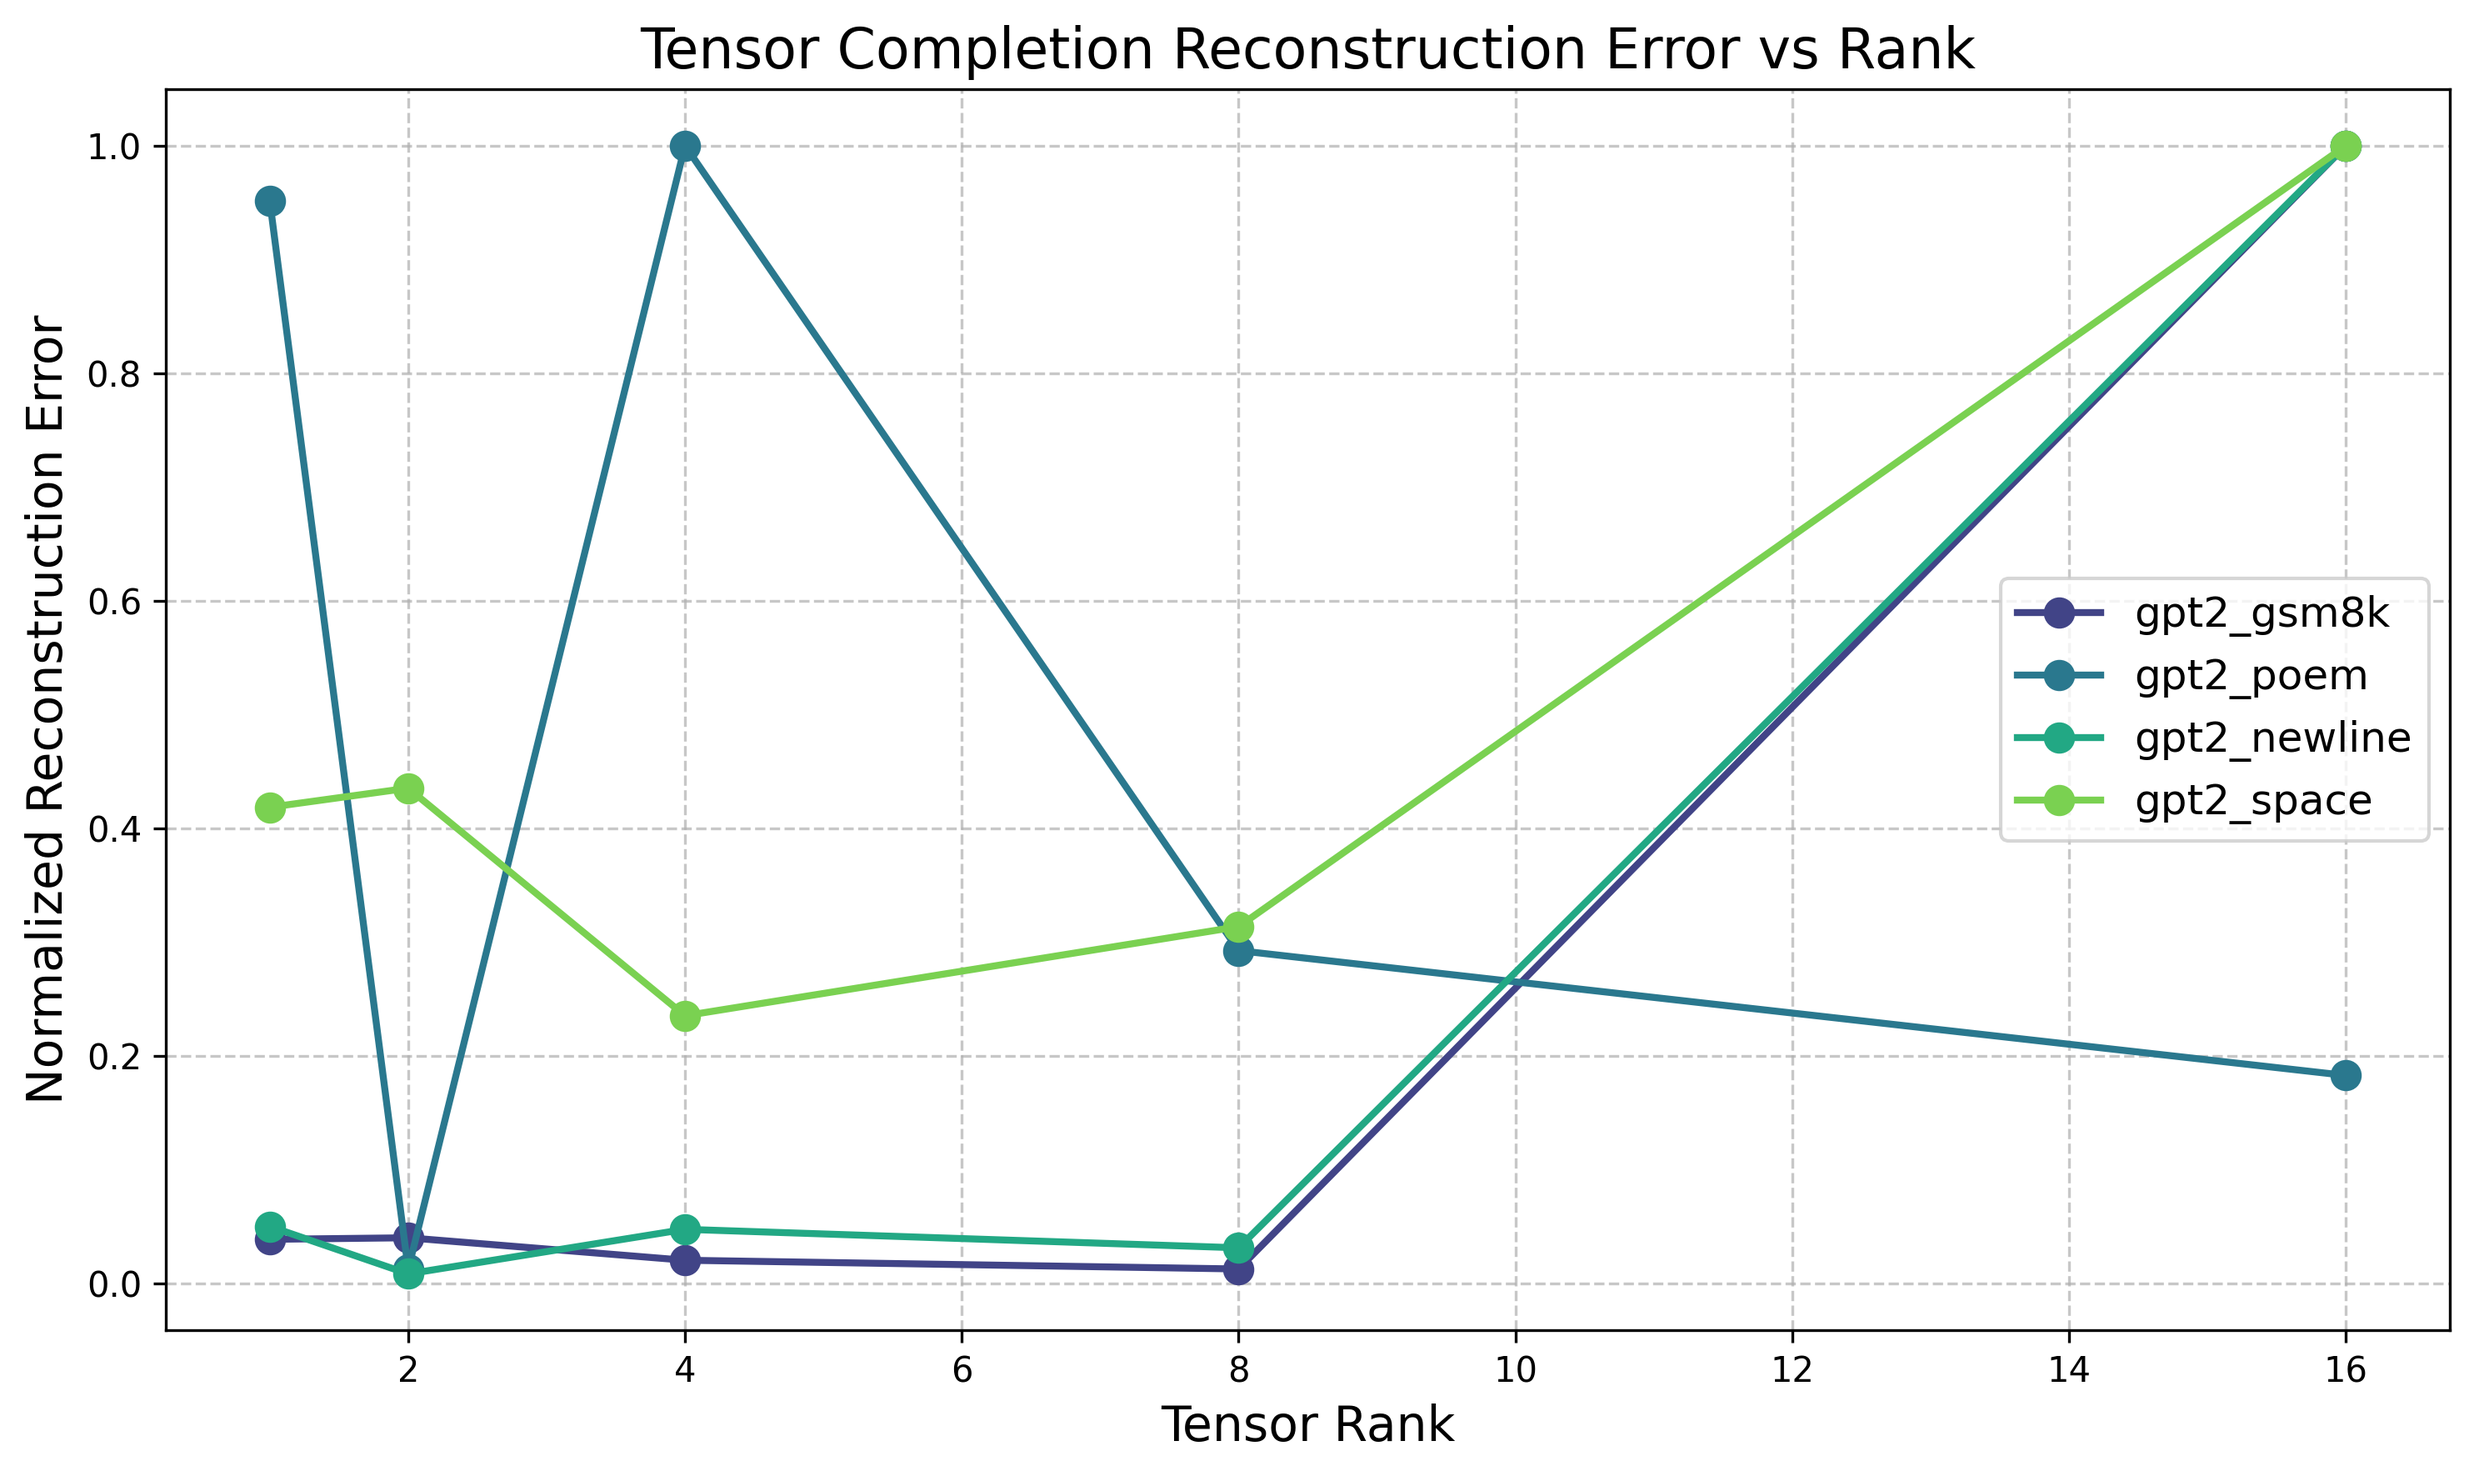
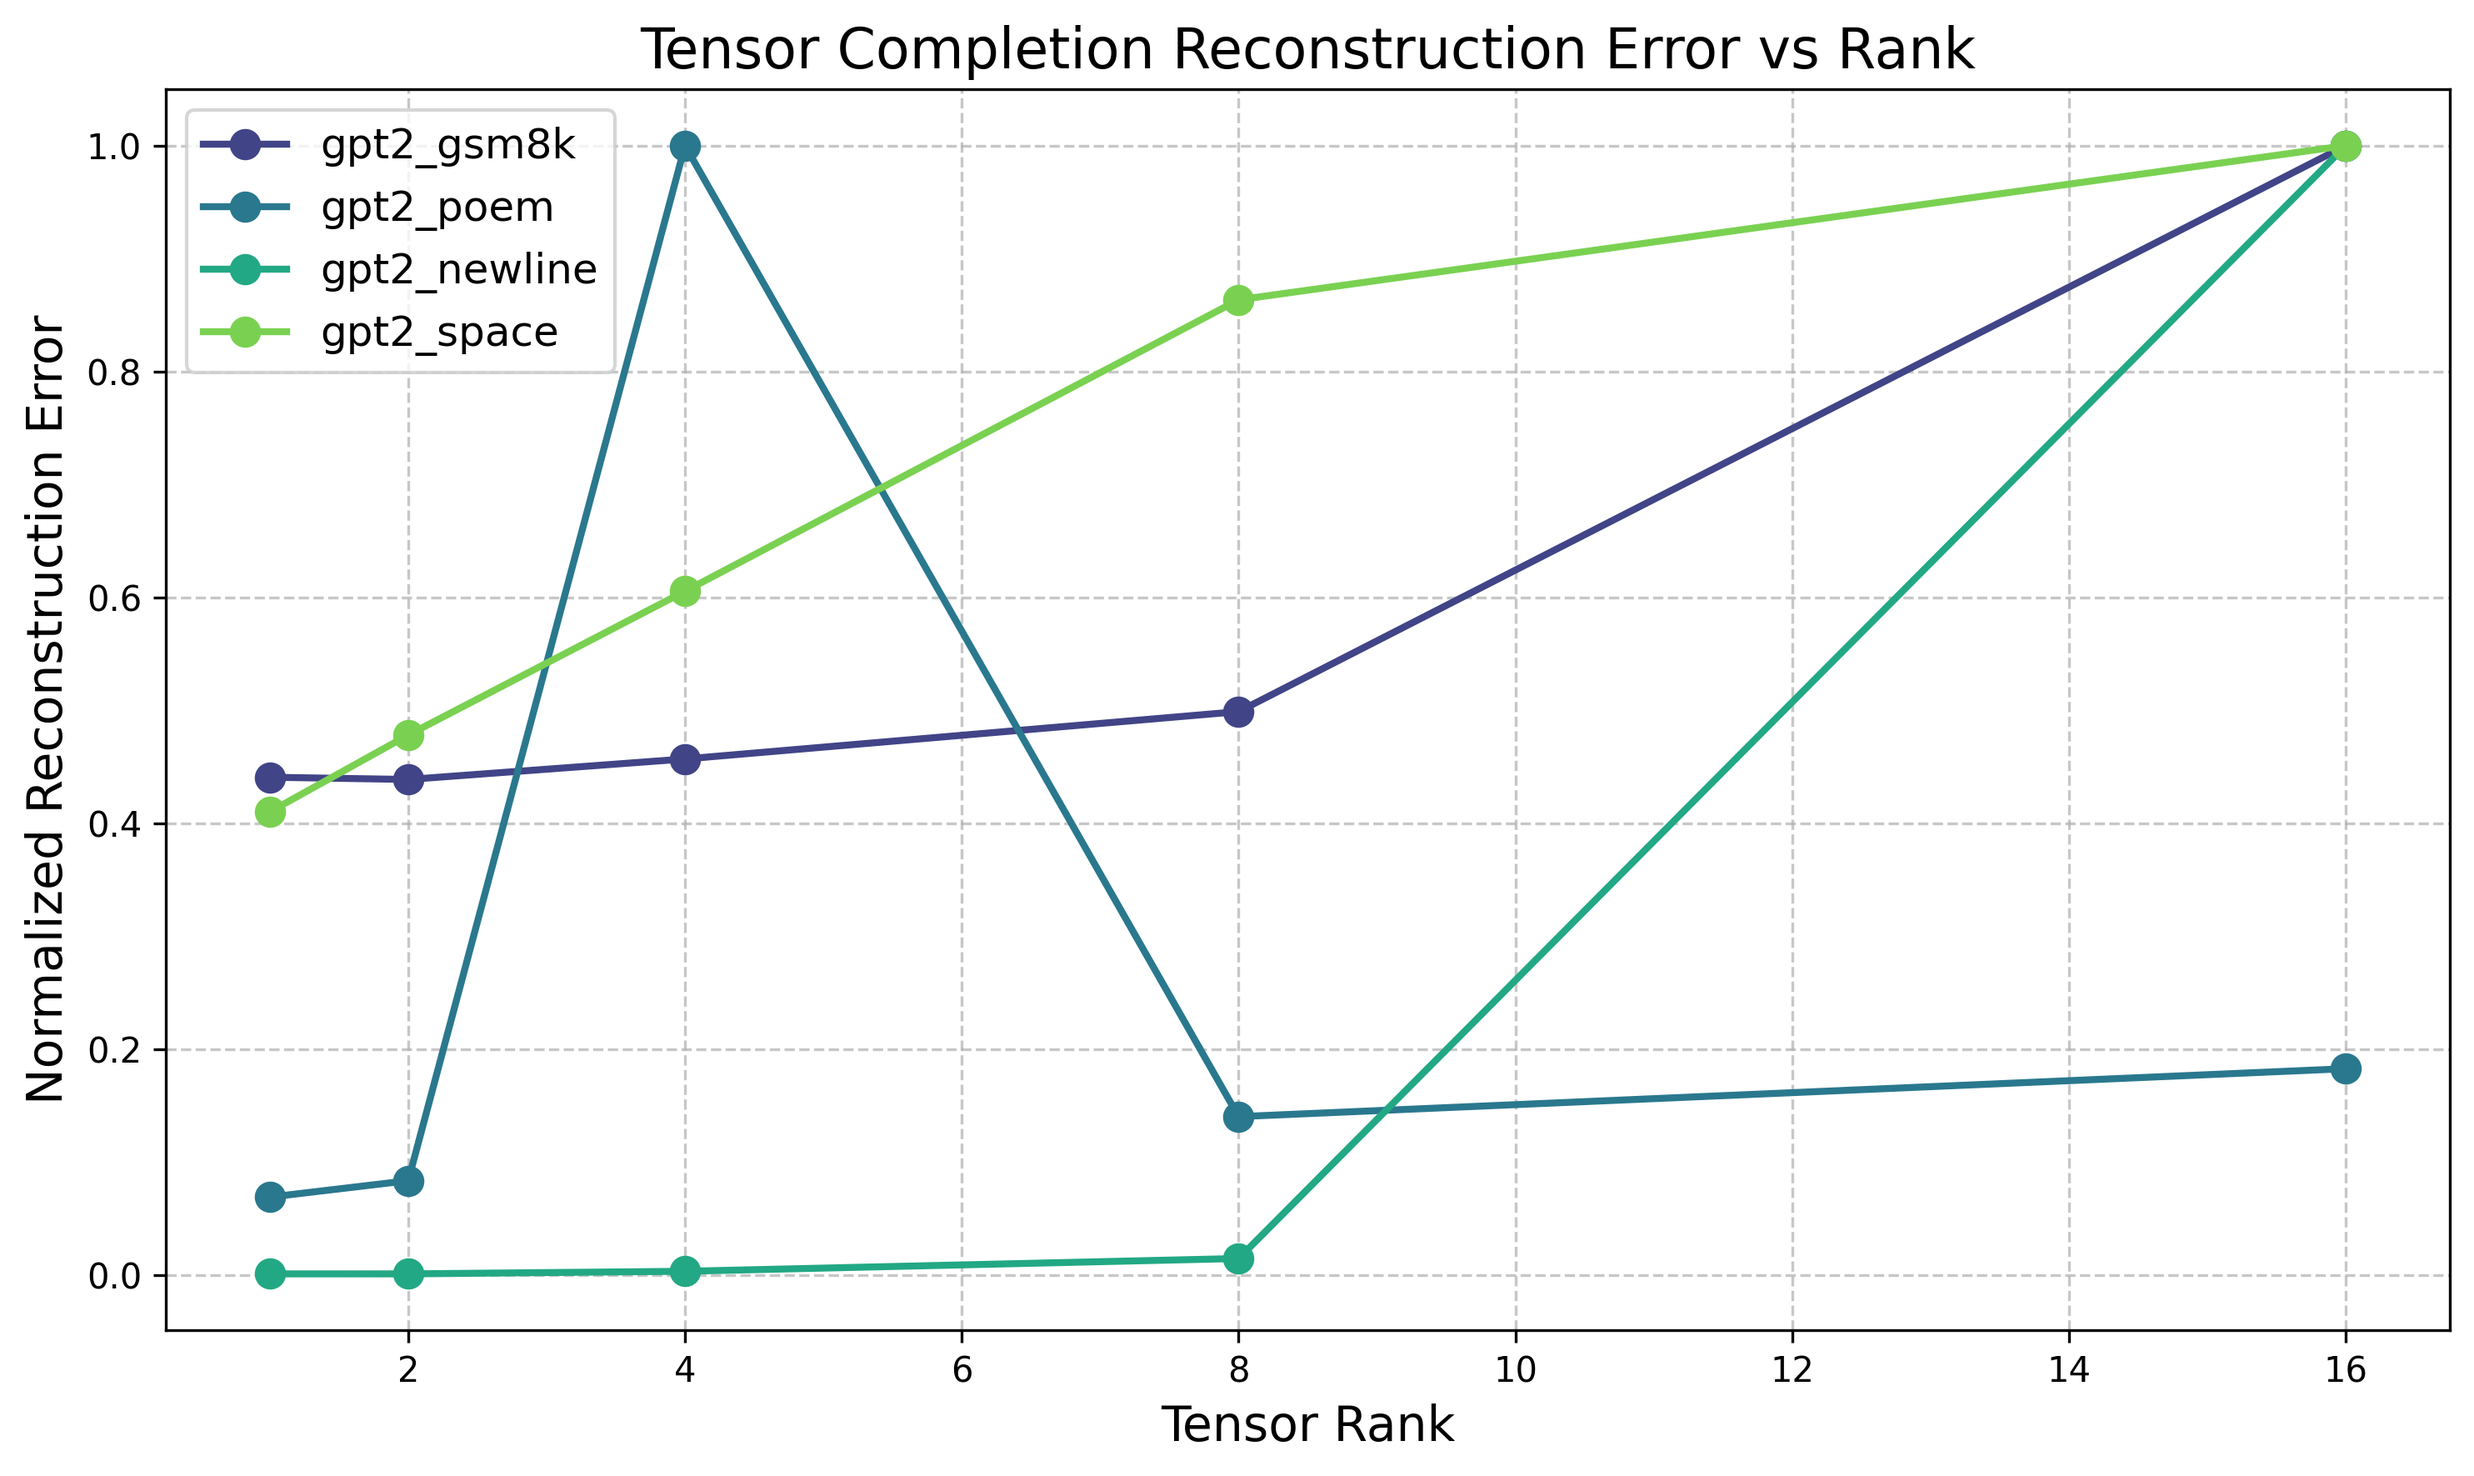
Add rtol to regressor

diff --git a/tjdnet/models/cp_regressor.py b/tjdnet/models/cp_regressor.py
@@ -41,6 +41,7 @@ class CPRegressor(nn.Module):
     # ------------------------------------------------------------------ #
     # fit with tqdm + simple early stopping
     # ------------------------------------------------------------------ #
+
     def fit(
         self,
         X: torch.Tensor,
@@ -49,7 +50,8 @@ class CPRegressor(nn.Module):
         lr: float = 1e-2,
         epochs: int = 1000,
         batch_size: int = 512,
-        rtol: float = 1e-3,  # relative tolerance (fractional improvement)
+        rtol: float = 5e-2,  # ≥5 % relative improvement
+        atol: float = 1e-2,  # ≥0.01 absolute drop
         patience: int = 10,
     ):
         """Train CPRegressor with Adam.
@@ -60,7 +62,7 @@ class CPRegressor(nn.Module):
             lr (float, optional): Learning rate. Defaults to 1e-2.
             epochs (int, optional): Max num epochs. Defaults to 1000.
             batch_size (int, optional): Batch Size. Defaults to 512.
-            rtol (float, optional): Relative tolerance for early stopping. Defaults to 1e-3.
+            rtol (float, optional): Relative tolerance for early stopping. Defaults to 5e-2 (i.e 5%).
             patience (int, optional): Early stopping patience. Defaults to 10.
 
         Returns:
@@ -69,32 +71,38 @@ class CPRegressor(nn.Module):
         ds = TensorDataset(X, y)
         dl = DataLoader(ds, batch_size=batch_size, shuffle=True)
         opt = torch.optim.Adam(self.parameters(), lr=lr)
-        loss_fn = nn.MSELoss()
+        mse = nn.MSELoss()
 
         best_loss, wait = float("inf"), 0
-        epoch_bar = tqdm(range(epochs), desc="epochs", leave=False)
+        bar = tqdm(range(epochs), desc="epochs", leave=False)
 
-        for _ in epoch_bar:
+        improvement_checks = [
+            # relative
+            lambda best, curr: (best - curr) / best > rtol,
+            # absolute
+            lambda best, curr: best - curr > atol,
+        ]
+
+        for _ in bar:
             running = 0.0
             self.train()
             for xb, yb in dl:
                 opt.zero_grad()
-                loss = loss_fn(self(xb), yb)
+                loss = mse(self(xb), yb)
                 loss.backward()
                 opt.step()
                 running += loss.item() * xb.size(0)
 
             epoch_loss = running / len(ds)
-            epoch_bar.set_postfix(loss=f"{epoch_loss:.6f}")
+            bar.set_postfix(loss=f"{epoch_loss:.6f}")
 
-            # ------------- early-stopping with relative tolerance -------------
+            # initialise best_loss after first epoch
             if best_loss == float("inf"):
                 best_loss = epoch_loss
                 continue
 
-            improvement = (best_loss - epoch_loss) / best_loss
-            if improvement > rtol:
-                best_loss, wait = epoch_loss, 0
+            if any(fn(best_loss, epoch_loss) for fn in improvement_checks):
+                best_loss, wait = epoch_loss, 0  # significant improvement
             else:
                 wait += 1
                 if wait >= patience:

diff --git a/scripts/plots/plot_output_dist_recons_error.py b/scripts/plots/plot_output_dist_recons_error.py
@@ -139,11 +139,14 @@ def train_tc_v2(
     """
     # coords tensors are already (N, H)
     errors, ranks = [], []
-    for rank in tqdm.tqdm([1, 2, 4, 8, 16], desc="Training CPRegressor"):
+    for rank in tqdm.tqdm([1, 2, 4, 8, 16], desc="Training CPRegressor", leave=False):
         reg = CPRegressor(
-            vocab_size, horizon=x_train.shape[1], rank=rank, device=x_train.device
+            vocab_size,
+            horizon=x_train.shape[1],
+            rank=rank,
+            device=x_train.device,
         )
-        reg.fit(x_train, y_train, epochs=2000)
+        reg.fit(x_train, y_train, epochs=1000, atol=1e-2, rtol=5e-2)
         preds = reg.predict(x_test)
         error = torch.linalg.norm(preds - y_test).item()
         errors.append(error)
@@ -255,6 +258,11 @@ def main(args: Namespace):
             y_test=torch.tensor(dataset["test"]["py|x"]),
             vocab_size=torch.max(torch.tensor(dataset["train"]["y"])) + 1,
         )
+
+        # Print a tiny report
+        print("-" * 80 + f"\nSubset: {subset['name']}")
+        for r, e in zip(ranks, errors):
+            print(f"rank={r:<2d}  RMSE={e:.4f}")
 
         # Store errors and ranks
         subset["errors"] = errors
